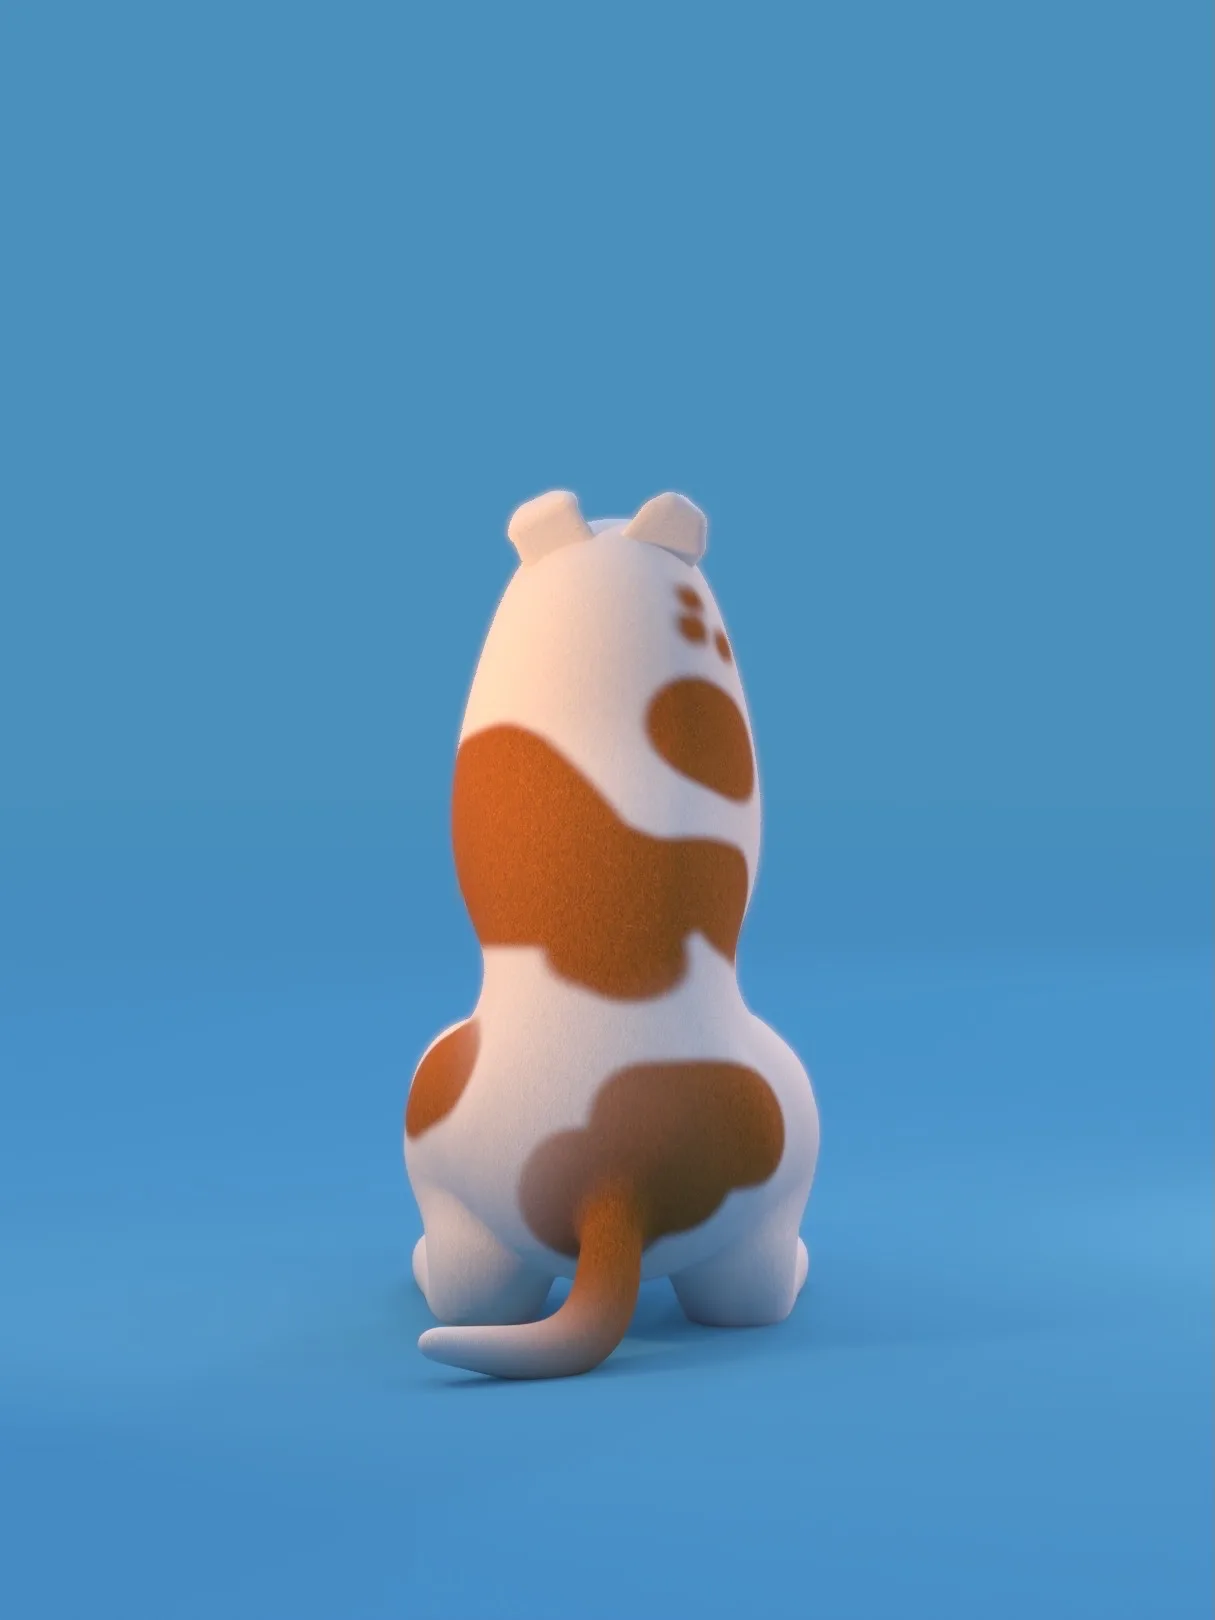
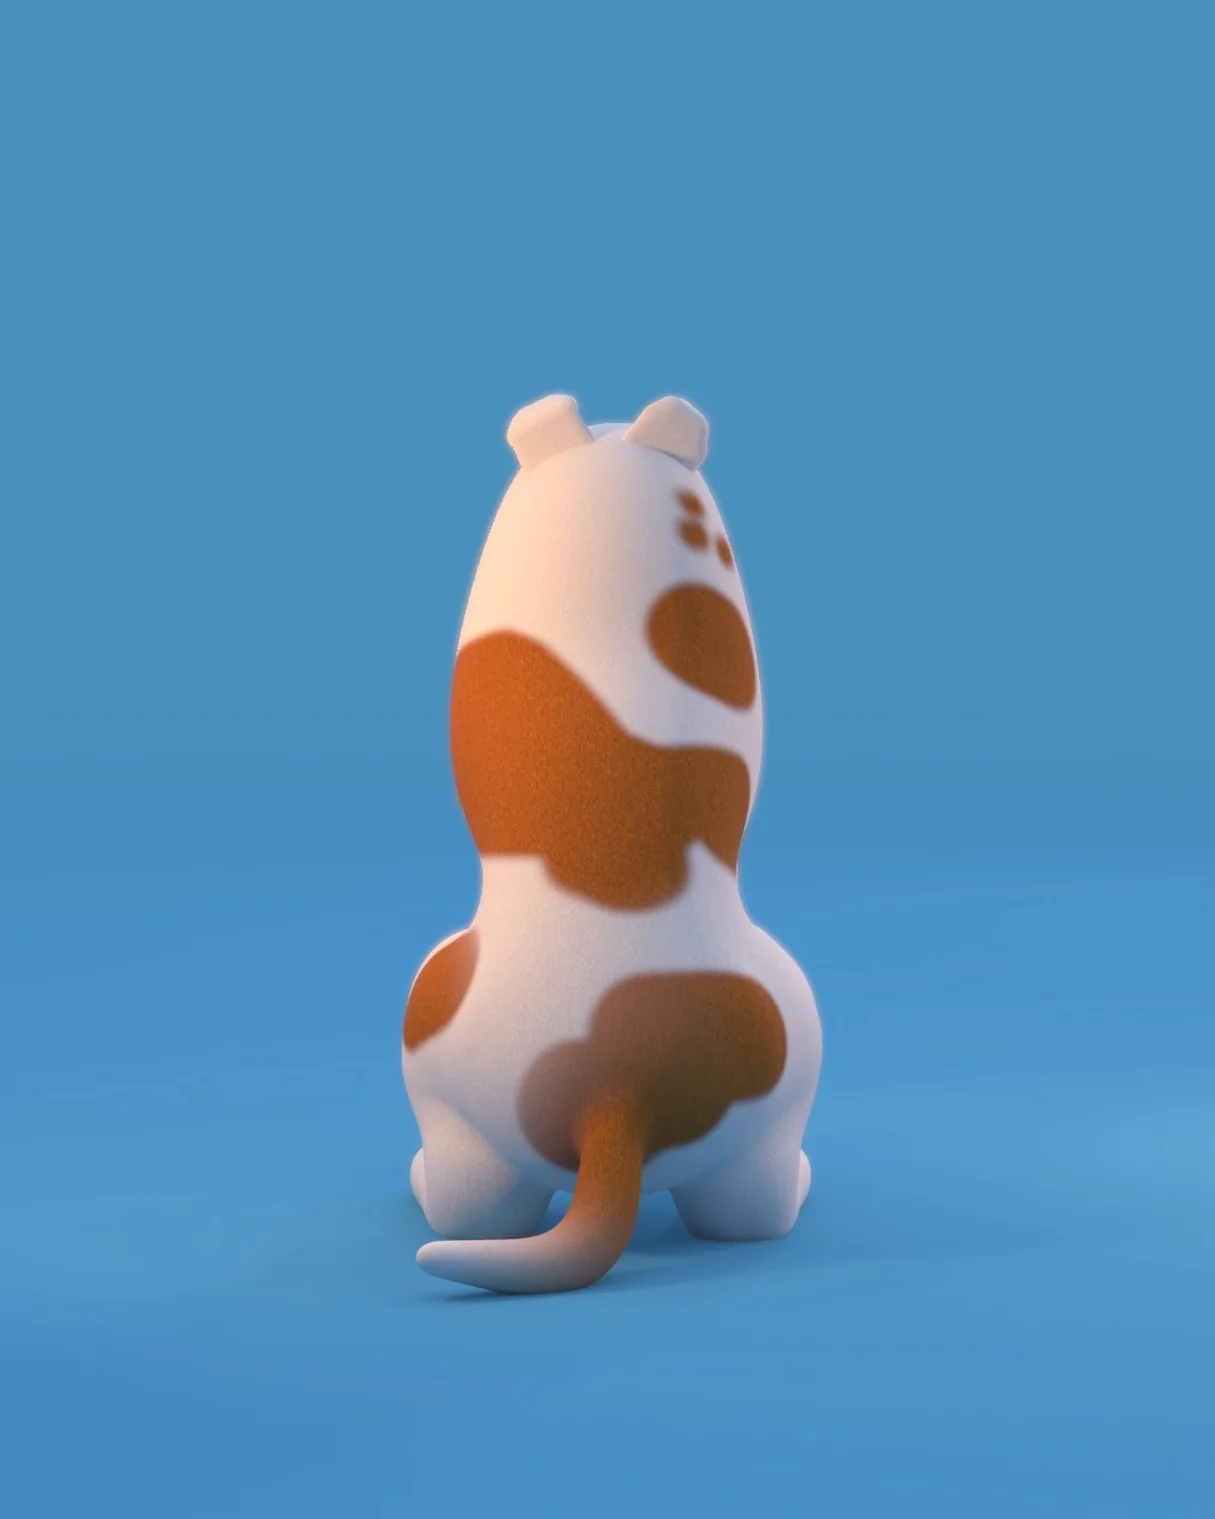
fix(work): swap in Pato's re-cropped back render
Josh cropped the back render to land natively at 4/5 instead of the
old 3/4 crop, so the heroPair frames match without a CSS crop.

diff --git a/lib/projects.ts b/lib/projects.ts
@@ -592,10 +592,8 @@ export const projects: Project[] = [
       src: "/work/womp-pato/01-pato.webp",
     },
     heroPair: {
-      // True native ratio is 3/4, but matched to hero's 4/5 here — a
-      // ~6% crop, safe given the generous plain-background margin — so
-      // the two frames land the same size side by side instead of two
-      // different heights.
+      // Josh recropped the render itself to 4/5, matching hero — no
+      // CSS crop needed to land the two frames at the same size.
       ratio: "4/5",
       alt: "Pato, from behind",
       src: "/work/womp-pato/02-pato-back.webp",
